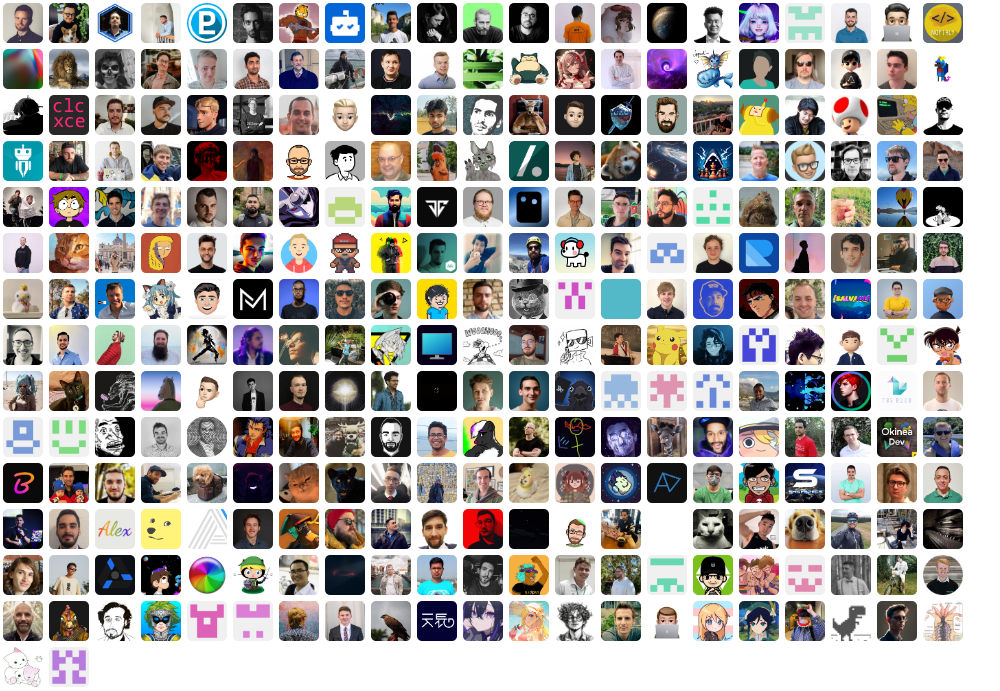
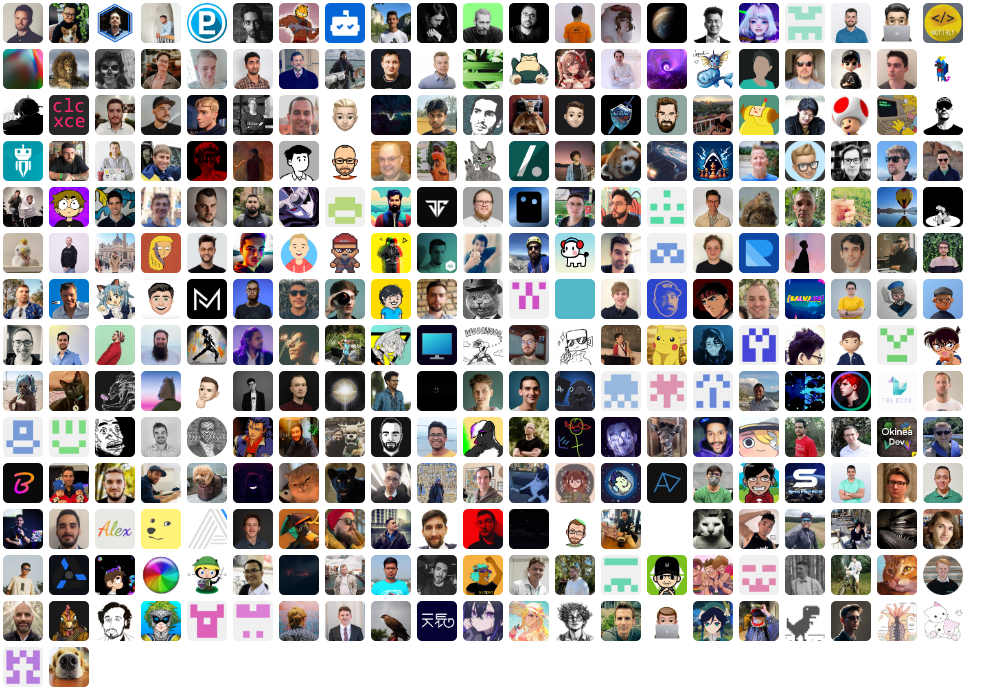
Release 6.0.0

diff --git a/CHANGELOG.md b/CHANGELOG.md
@@ -3,6 +3,13 @@
  All notable changes to this project will be documented in this file. Dates are displayed in UTC.
 
  
+#### [v6.0.0](https://github.com/PKief/vscode-material-icon-theme/compare/v5.0.1...v6.0.0) 
+
+> March 29, 2024 
+
+- Update csharpier.svg [`42216da3`](https://github.com/PKief/vscode-material-icon-theme/commit/42216da3)
+- feat: add lighthouserc .cjs extension support [`#2256`](https://github.com/PKief/vscode-material-icon-theme/pull/2256)
+ 
 #### [v5.0.1](https://github.com/PKief/vscode-material-icon-theme/compare/v5.0.0...v5.0.1) 
 
 > March 19, 2024 
